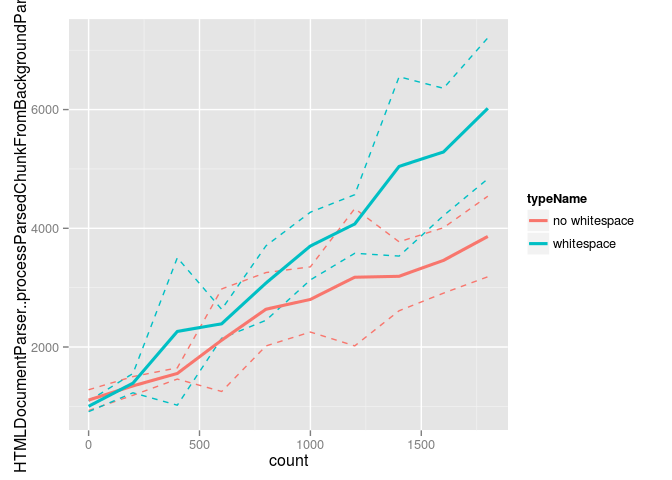
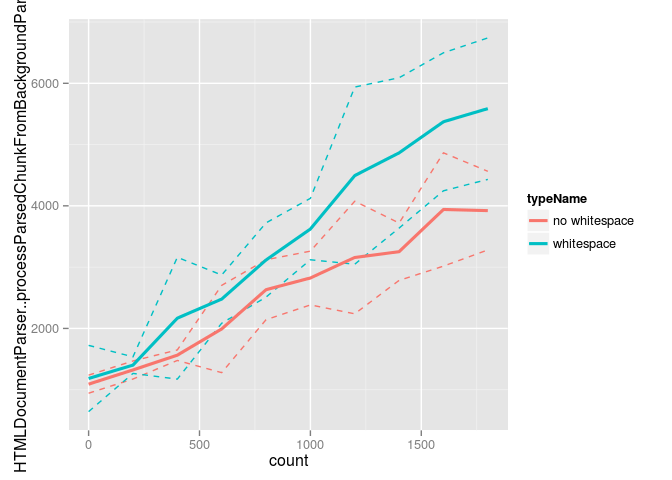
Started attempting curve fitting

diff --git a/styleModel.md b/styleModel.md
@@ -23,6 +23,14 @@ As above, but without whitespace between divs (to avoid O(N^2) style). Graphs co
 
 ![](styleModel_files/figure-markdown_github/unnamed-chunk-4-1.png) ![](styleModel_files/figure-markdown_github/unnamed-chunk-4-2.png) ![](styleModel_files/figure-markdown_github/unnamed-chunk-4-3.png)
 
-Looking at just whitespace. Graphs contain 120 samples.
+Looking at just whitespace. Graphs contain 180 samples.
 
 ![](styleModel_files/figure-markdown_github/unnamed-chunk-6-1.png) ![](styleModel_files/figure-markdown_github/unnamed-chunk-6-2.png) ![](styleModel_files/figure-markdown_github/unnamed-chunk-6-3.png)
+
+Without text nodes, the cost of updateStyle is linear, with an intercept of 296.2808081 and a slope of 1.7324411.
+
+![](styleModel_files/figure-markdown_github/unnamed-chunk-8-1.png)
+
+Introducing whitespace gives a cost that we assume fits a pure quadratic with a count^2 term of 0.0098904.
+
+![](styleModel_files/figure-markdown_github/unnamed-chunk-9-1.png)
